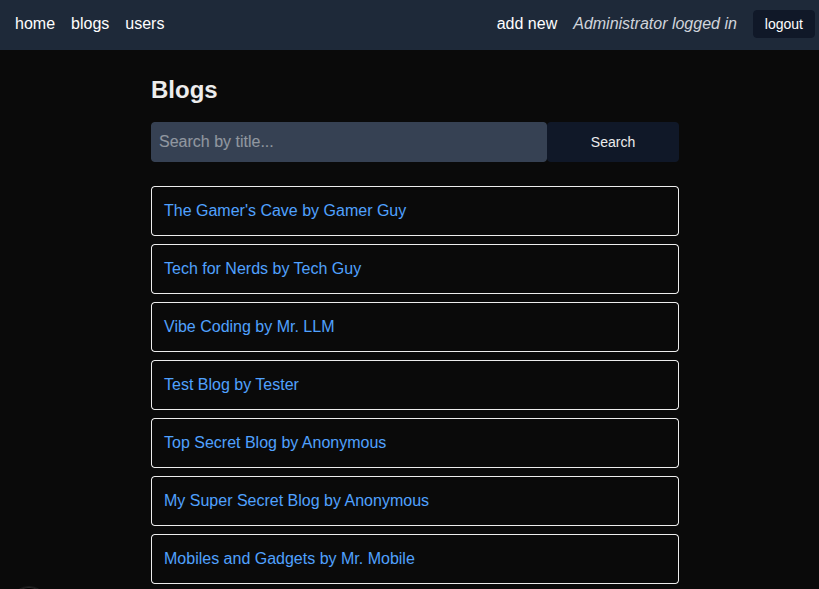
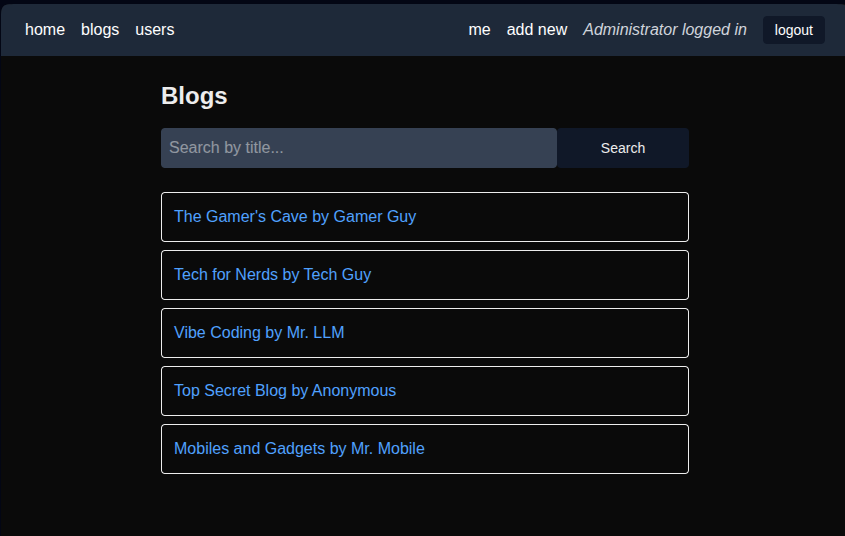
update(docs): add instructions on how to perform API requests for the Blogs List app - update(docs): add the most recent screenshots with the newest UI updates

Changed region(s): [[0.0, 0.0, 1.0, 0.8955], [0.1832, 0.9254, 0.8242, 1.0]]

diff --git a/README.md b/README.md
@@ -72,6 +72,36 @@
 - Access on https://local.drizzle.studio
 
 
+### API Requests
+
+#### GET
+
+Fetch all available notes
+```bash
+curl -X GET http://localhost:3000/api/blogs
+```
+
+#### POST
+
+Add a new note
+
+1. Login on the Web UI: http://localhost:3000/login
+
+2. Access your Personal info page: http://localhost:3000/me
+
+3. Click on "**Generate New Token**"
+
+4. **Copy** your auth token
+
+5. Send a POST request with the blog data and your auth token (example)
+    ```bash
+    curl -X POST http://localhost:3000/api/blogs  \
+      -H "Authorization: Bearer <token>" \
+      -H "Content-Type: application/json" \
+      -d '{ "title": "My personal blog space", "author": "Myself", "url": "http://example.com", "year": 2026 }'
+    ```
+
+
 ## Notes app
 
 ### Screenshots
